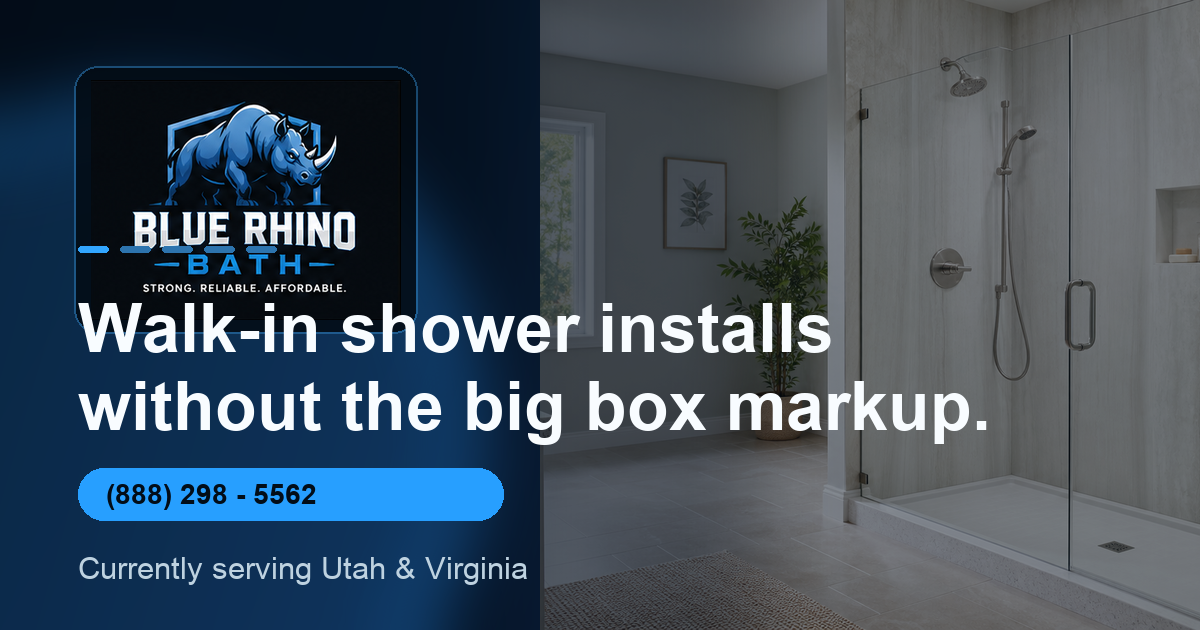
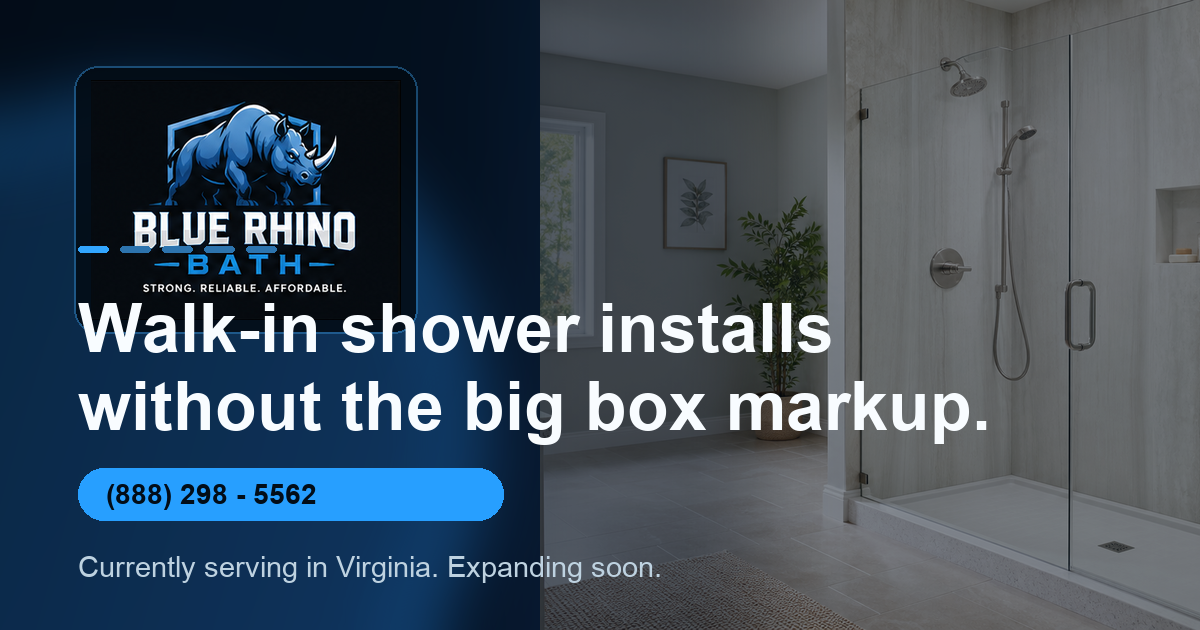
Update service area messaging

Changed region(s): [[0.0617, 0.8746, 0.555, 0.9349]]

diff --git a/index.html b/index.html
@@ -12,13 +12,13 @@
     <meta property="og:type" content="website">
     <meta property="og:url" content="https://bluerhinobath.com/">
     <meta property="og:title" content="Blue Rhino Bath | Walk-In Shower Installs">
-    <meta property="og:description" content="Walk-in shower installs without the big box markup. Currently serving Utah & Virginia.">
+    <meta property="og:description" content="Walk-in shower installs without the big box markup. Currently serving in Virginia. Expanding soon.">
     <meta property="og:image" content="https://bluerhinobath.com/assets/social-share.png">
     <meta property="og:image:width" content="1200">
     <meta property="og:image:height" content="630">
     <meta name="twitter:card" content="summary_large_image">
     <meta name="twitter:title" content="Blue Rhino Bath | Walk-In Shower Installs">
-    <meta name="twitter:description" content="Walk-in shower installs without the big box markup. Currently serving Utah & Virginia.">
+    <meta name="twitter:description" content="Walk-in shower installs without the big box markup. Currently serving in Virginia. Expanding soon.">
     <meta name="twitter:image" content="https://bluerhinobath.com/assets/social-share.png">
     <link rel="image_src" href="https://bluerhinobath.com/assets/social-share.png">
     <link rel="icon" href="assets/blue-rhino-icon-transparent.png" type="image/png">
@@ -207,7 +207,7 @@
         <img class="footer-logo" src="assets/blue-rhino-logo-dark.png" alt="">
         Blue Rhino Bath
       </span>
-      <span class="footer-details">Walk-in shower installs and free estimates. Currently serving Utah &amp; Virginia. <a href="tel:+18882985562">(888) 298 - 5562</a></span>
+      <span class="footer-details">Walk-in shower installs and free estimates. Currently serving in Virginia. Expanding soon. <a href="tel:+18882985562">(888) 298 - 5562</a></span>
       <span class="footer-social">
         <a href="https://www.facebook.com/bluerhinobath" target="_blank" rel="noopener">Facebook</a>
         <a href="https://www.instagram.com/bluerhinobath/" target="_blank" rel="noopener">Instagram</a>

diff --git a/assistance.html b/assistance.html
@@ -128,7 +128,7 @@
         <img class="footer-logo" src="assets/blue-rhino-logo-dark.png" alt="">
         Blue Rhino Bath
       </span>
-      <span class="footer-details">Walk-in shower installs and free estimates. Currently serving Utah &amp; Virginia. <a href="tel:+18882985562">(888) 298 - 5562</a></span>
+      <span class="footer-details">Walk-in shower installs and free estimates. Currently serving in Virginia. Expanding soon. <a href="tel:+18882985562">(888) 298 - 5562</a></span>
       <span class="footer-social">
         <a href="https://www.facebook.com/bluerhinobath" target="_blank" rel="noopener">Facebook</a>
         <a href="https://www.instagram.com/bluerhinobath/" target="_blank" rel="noopener">Instagram</a>

diff --git a/veterans.html b/veterans.html
@@ -121,7 +121,7 @@
         <img class="footer-logo" src="assets/blue-rhino-logo-dark.png" alt="">
         Blue Rhino Bath
       </span>
-      <span class="footer-details">Walk-in shower installs and free estimates. Currently serving Utah &amp; Virginia. <a href="tel:+18882985562">(888) 298 - 5562</a></span>
+      <span class="footer-details">Walk-in shower installs and free estimates. Currently serving in Virginia. Expanding soon. <a href="tel:+18882985562">(888) 298 - 5562</a></span>
       <span class="footer-social">
         <a href="https://www.facebook.com/bluerhinobath" target="_blank" rel="noopener">Facebook</a>
         <a href="https://www.instagram.com/bluerhinobath/" target="_blank" rel="noopener">Instagram</a>

diff --git a/thanks.html b/thanks.html
@@ -56,7 +56,7 @@
         <img class="footer-logo" src="assets/blue-rhino-logo-dark.png" alt="">
         Blue Rhino Bath
       </span>
-      <span class="footer-details">Walk-in shower installs and free estimates. Currently serving Utah &amp; Virginia. <a href="tel:+18882985562">(888) 298 - 5562</a></span>
+      <span class="footer-details">Walk-in shower installs and free estimates. Currently serving in Virginia. Expanding soon. <a href="tel:+18882985562">(888) 298 - 5562</a></span>
       <span class="footer-social">
         <a href="https://www.facebook.com/bluerhinobath" target="_blank" rel="noopener">Facebook</a>
         <a href="https://www.instagram.com/bluerhinobath/" target="_blank" rel="noopener">Instagram</a>
